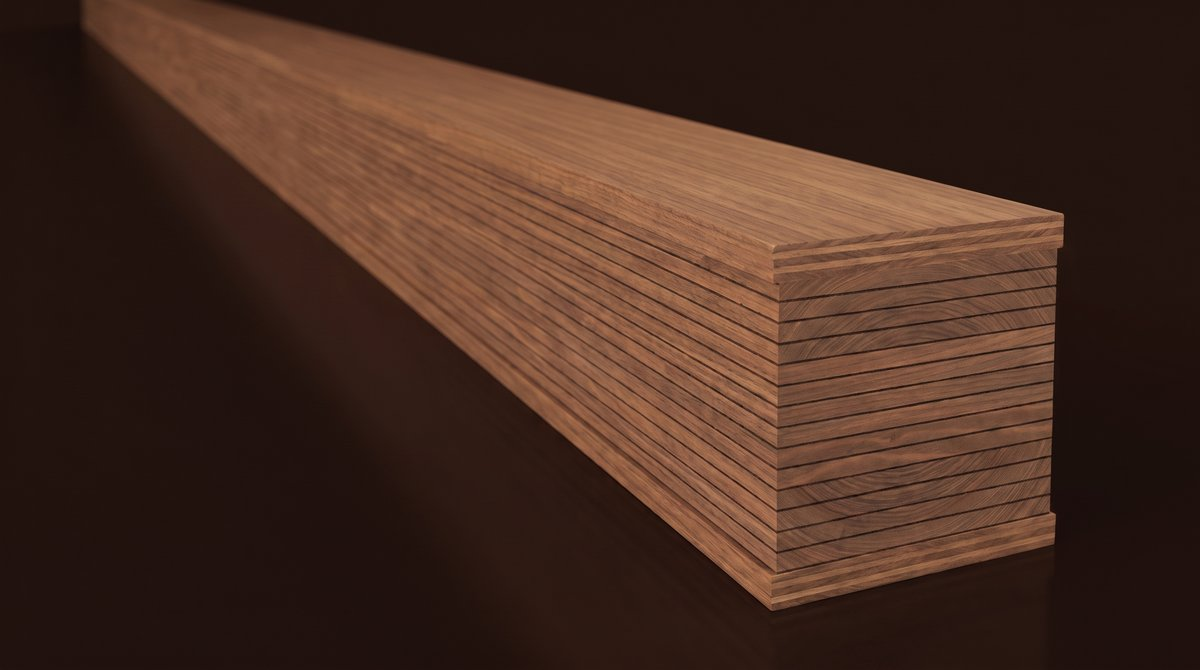
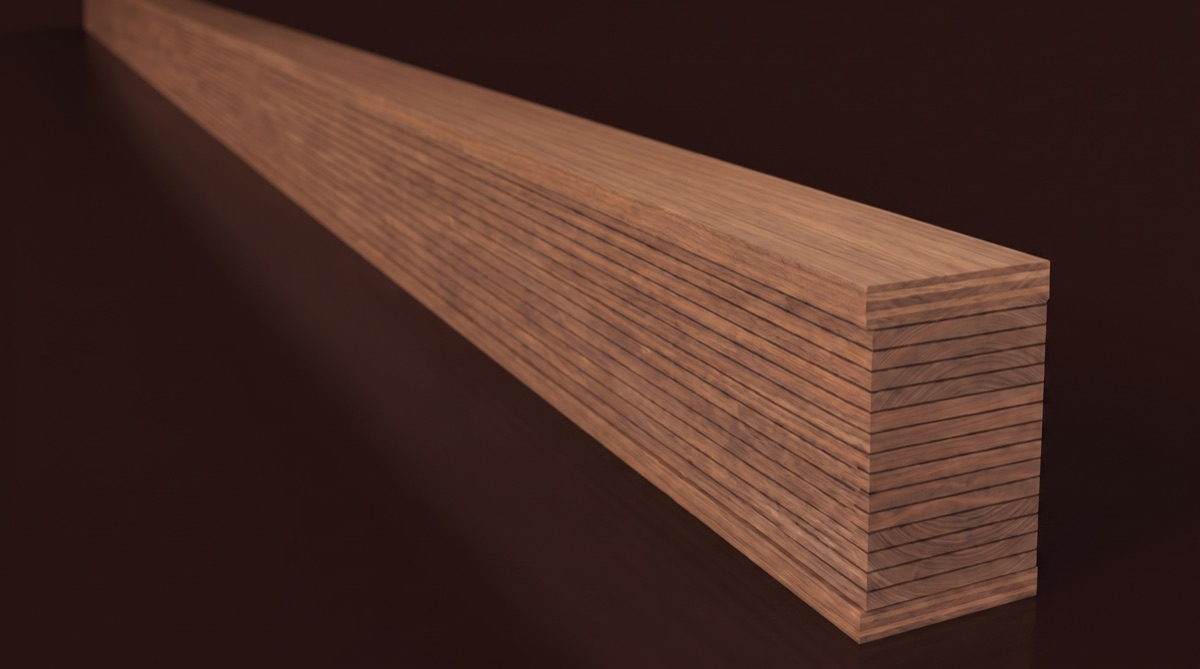
DC investor deck: slimmer SUPERWOOD-only beam on slide 5
Re-rendered image-to-image from the previous beam with the cross-section
about half as wide; previous render kept in prep/unused-assets.

diff --git a/superwood-datacenter-investor/slides.html b/superwood-datacenter-investor/slides.html
@@ -338,7 +338,7 @@ table.risks td:first-child{width:38%}table.risks td{font-size:max(.78rem,11px)}
       </div>
       <div>
         <table class="cmp">
-          <thead><tr><th></th><th><span>Mass timber today (CLT, glulam)</span><div class="thimgs"><img src="assets/beam_glulam.jpg?v=c6a281e8" alt="Glulam beam" loading="lazy"></div></th><th><span>With SUPERWOOD</span><div class="thimgs"><img src="assets/beam_hybrid.jpg?v=837062b0" alt="SUPERWOOD hybrid beam" loading="lazy"><img src="assets/beam_thin.jpg?v=abbcf225" alt="Thin SUPERWOOD beam" loading="lazy"></div></th></tr></thead>
+          <thead><tr><th></th><th><span>Mass timber today (CLT, glulam)</span><div class="thimgs"><img src="assets/beam_glulam.jpg?v=c6a281e8" alt="Glulam beam" loading="lazy"></div></th><th><span>With SUPERWOOD</span><div class="thimgs"><img src="assets/beam_hybrid.jpg?v=837062b0" alt="SUPERWOOD hybrid beam" loading="lazy"><img src="assets/beam_thin.jpg?v=f85a3c3e" alt="Thin SUPERWOOD beam" loading="lazy"></div></th></tr></thead>
           <tbody>
             <tr><td>What it replaces</td><td>Concrete floor slabs and decks; some columns and beams</td><td>Adds the steel: members, skins, screens and fences; later, enclosures and foundations</td></tr>
             <tr><td>Strength</td><td>Lumber-grade; large sections carry the load</td><td>Tensile strength above ASTM A36 steel in samples, at one-sixth the weight; thin, dense members</td></tr>

diff --git a/superwood-datacenter-investor/v2.html b/superwood-datacenter-investor/v2.html
@@ -341,7 +341,7 @@ table.cmp td{line-height:1.4}
       </div>
       <div>
         <table class="cmp">
-          <thead><tr><th></th><th><span>Mass timber today (CLT, glulam)</span><div class="thimgs"><img src="assets/beam_glulam.jpg?v=c6a281e8" alt="Glulam beam" loading="lazy"></div></th><th><span>With SUPERWOOD</span><div class="thimgs"><img src="assets/beam_hybrid.jpg?v=837062b0" alt="SUPERWOOD hybrid beam" loading="lazy"><img src="assets/beam_thin.jpg?v=abbcf225" alt="Thin SUPERWOOD beam" loading="lazy"></div></th></tr></thead>
+          <thead><tr><th></th><th><span>Mass timber today (CLT, glulam)</span><div class="thimgs"><img src="assets/beam_glulam.jpg?v=c6a281e8" alt="Glulam beam" loading="lazy"></div></th><th><span>With SUPERWOOD</span><div class="thimgs"><img src="assets/beam_hybrid.jpg?v=837062b0" alt="SUPERWOOD hybrid beam" loading="lazy"><img src="assets/beam_thin.jpg?v=f85a3c3e" alt="Thin SUPERWOOD beam" loading="lazy"></div></th></tr></thead>
           <tbody>
             <tr><td>What it replaces</td><td>Concrete floors and decks</td><td>Adds the steel: members, skins, screens, fences</td></tr>
             <tr><td>Strength</td><td>Lumber-grade; large sections</td><td>Above A36 steel in tension at one-sixth the weight; thin members</td></tr>

diff --git a/superwood-datacenter-investor/render/beams-glulam-hybrid-thin.md b/superwood-datacenter-investor/render/beams-glulam-hybrid-thin.md
@@ -40,3 +40,7 @@ Same camera. The beam is about twenty quarter-inch boards stacked flat one on to
 ## Revision 3 (Alex, 2026-09-04): image-to-image from the hybrid render
 
 SUPERWOOD-only beam generated from the hybrid beam job as reference ("keep this image exactly the same except..."): same camera and direction, whole beam in the dark dense wood of the hybrid plates, about twenty quarter-inch boards stacked flat.
+
+## Revision 4 (Alex, 2026-09-06): SUPERWOOD-only beam at half the thickness
+
+Image-to-image from the current beam_thin.jpg (Higgsfield job 9751f6c2): same camera, direction, studio and laminated dense wood; cross-section half as wide and half as deep, same length, about ten lamination lines. Displayed mirrored on the web as before.
